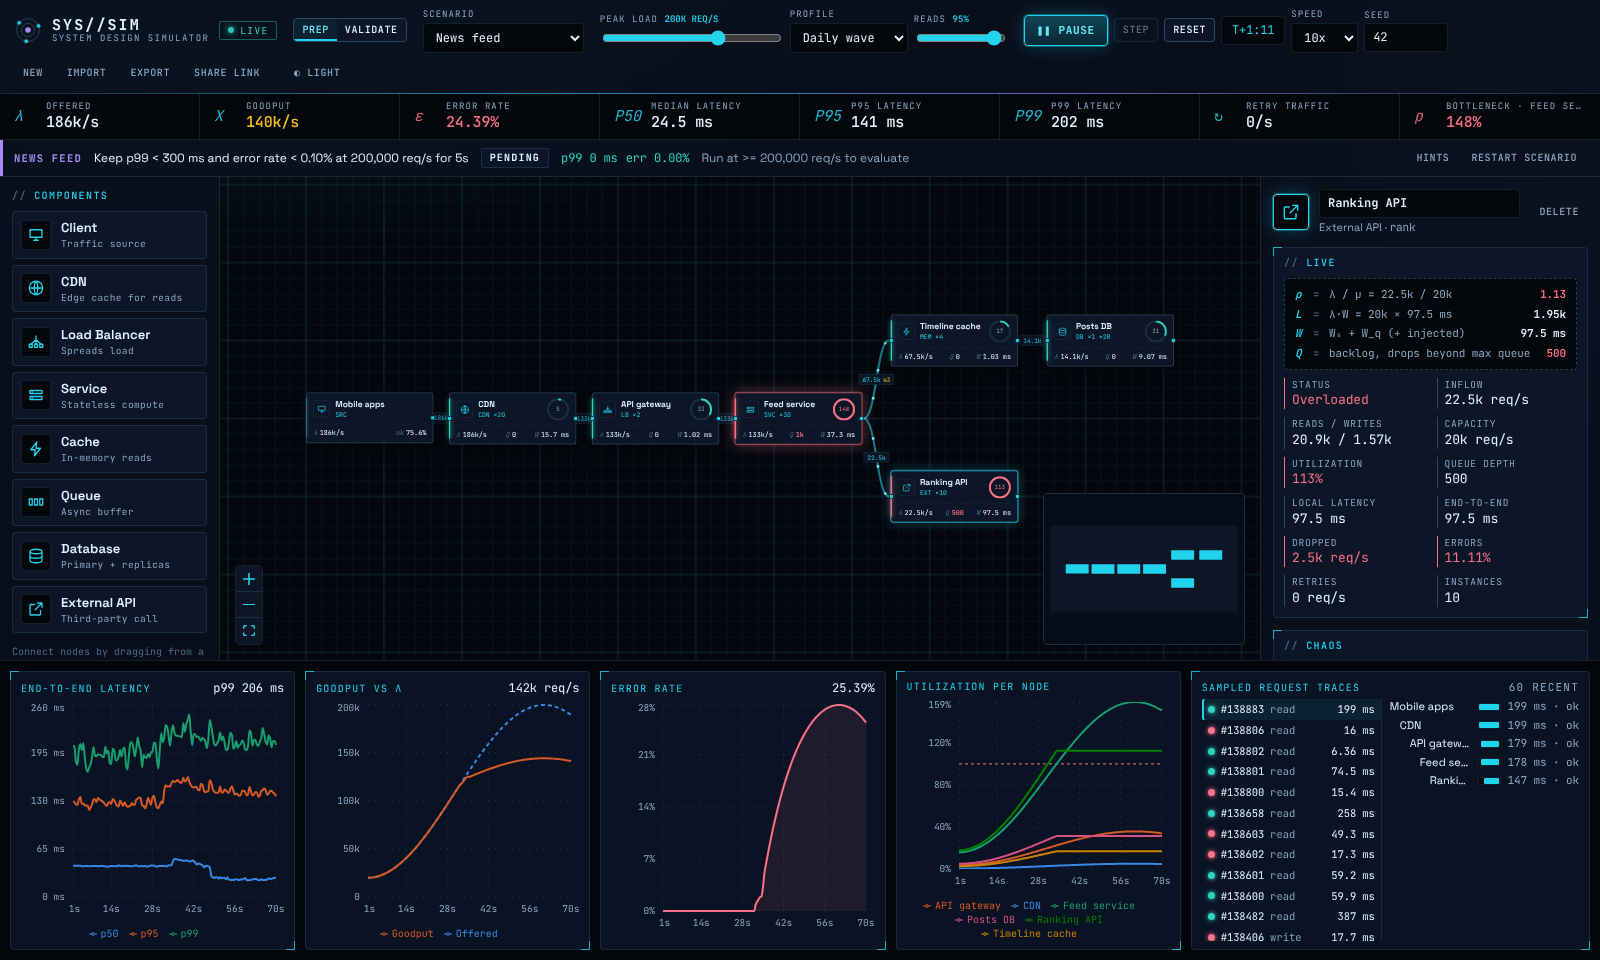
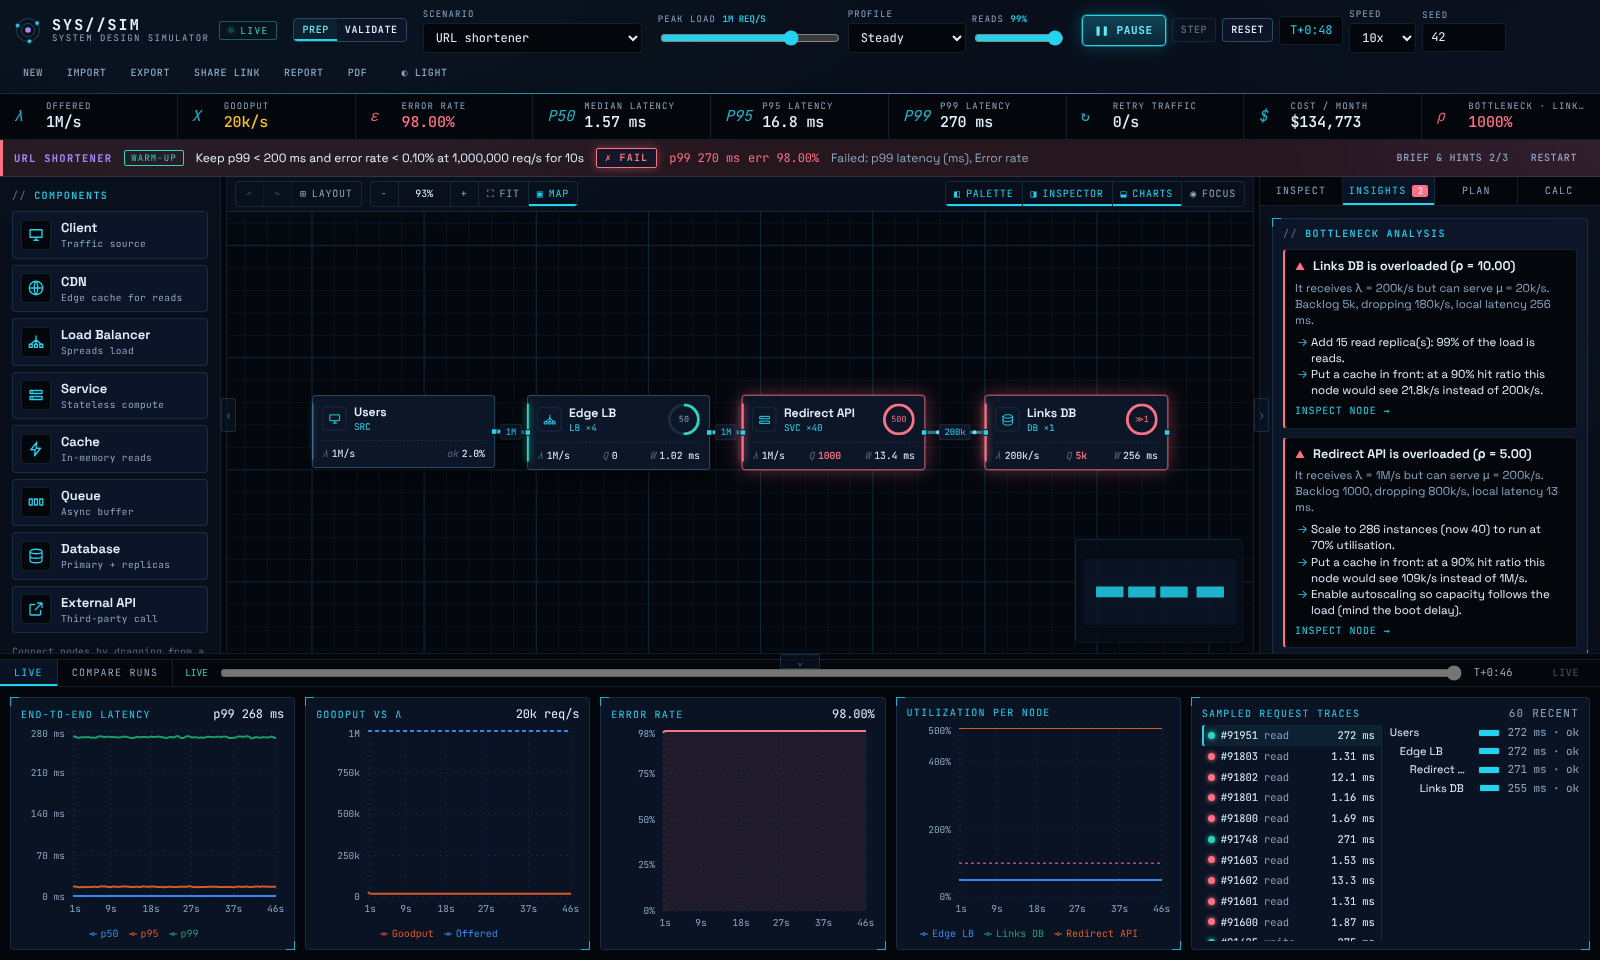
perf/docs: smoother charts, latched chaos verdicts, docs for v1.1
- Charts redraw at 2 Hz with at most 150 points per series; the insights
  badge subscribes on its own so the right panel no longer re-renders per
  frame (p95 frame time 16.8 ms running and dragging)
- Scenario goals with scripted chaos keep their verdict until Reset
- Planner applies a plan as a single undo step; share-link copy starts
  inside the click so the clipboard write keeps user activation
- README, architecture and requirements updated; ADR 0003 on rule-based
  insights and simulation-driven planning; new screenshot

Claude-Session: https://claude.ai/code/session_01N1oB8U8sLUMtzznMa2NpbQ

diff --git a/apps/web/src/features/inspector/RightPanel.tsx b/apps/web/src/features/inspector/RightPanel.tsx
@@ -4,31 +4,34 @@ import { useDesignStore } from '../../state/designStore';
 import { useSimStore } from '../../state/simStore';
 import type { RightTab } from '../../state/uiStore';
 import { useUiStore } from '../../state/uiStore';
+import type { TabItem } from '../../ui/Tabs';
 import { Tabs } from '../../ui/Tabs';
 import { EstimatorPanel } from '../estimator/EstimatorPanel';
 import { InsightsPanel } from '../insights/InsightsPanel';
 import { PlannerPanel } from '../planner/PlannerPanel';
 import { Inspector } from './Inspector';
 
-/** Critical/warning insight count, refreshed with the live tick. */
-function useInsightBadge(): number {
+/** Critical/warning insight count; subscribes to live ticks on its own so the panel doesn't. */
+function InsightBadge() {
   const design = useDesignStore((s) => s.design);
   const latest = useSimStore((s) => s.latest);
-  return useMemo(
+  const count = useMemo(
     () =>
       diagnose(design, latest).filter((i) => i.severity === 'critical' || i.severity === 'warning')
         .length,
     [design, latest],
   );
+  return count > 0 ? <span className="tab-badge">{count}</span> : null;
 }
+
+const BADGE = <InsightBadge />;
 
 export function RightPanel() {
   const tab = useUiStore((s) => s.rightTab);
   const setTab = useUiStore((s) => s.setRightTab);
-  const badge = useInsightBadge();
-  const items: { id: RightTab; label: string; badge?: number }[] = [
+  const items: TabItem<RightTab>[] = [
     { id: 'inspect', label: 'Inspect' },
-    { id: 'insights', label: 'Insights', badge },
+    { id: 'insights', label: 'Insights', badge: BADGE },
     { id: 'plan', label: 'Plan' },
     { id: 'calc', label: 'Calc' },
   ];

diff --git a/packages/engine/src/metrics/goals.ts b/packages/engine/src/metrics/goals.ts
@@ -63,12 +63,23 @@ export interface GoalTracker {
  * Tracks a running simulation against a goal. The verdict is computed over
  * the most recent `holdSeconds` of ticks where offered load is at the target.
  */
-export function createGoalTracker(goal: ScenarioGoal, costOf?: CostFn): GoalTracker {
+export interface GoalTrackerOptions {
+  /** Keep the first pass/fail verdict until reset (for runs with scripted chaos). */
+  latch?: boolean;
+}
+
+export function createGoalTracker(
+  goal: ScenarioGoal,
+  costOf?: CostFn,
+  options: GoalTrackerOptions = {},
+): GoalTracker {
   let atTarget: Observation[] = [];
   let settle = 0;
+  let verdict: GoalStatus | null = null;
 
   const tracker: GoalTracker = {
     observe(result: TickResult): GoalStatus {
+      if (verdict) return verdict;
       if (result.offeredRps < goal.targetRps * 0.99) {
         atTarget = [];
         settle = 0;
@@ -87,7 +98,9 @@ export function createGoalTracker(goal: ScenarioGoal, costOf?: CostFn): GoalTrac
           atTarget.shift();
         }
       }
-      return tracker.status();
+      const status = tracker.status();
+      if (options.latch && status.state !== 'pending') verdict = status;
+      return status;
     },
     status(): GoalStatus {
       const first = atTarget[0];
@@ -144,6 +157,7 @@ export function createGoalTracker(goal: ScenarioGoal, costOf?: CostFn): GoalTrac
     reset(): void {
       atTarget = [];
       settle = 0;
+      verdict = null;
     },
   };
   return tracker;

diff --git a/apps/web/src/state/designStore.ts b/apps/web/src/state/designStore.ts
@@ -26,6 +26,8 @@ export interface DesignState extends HistoryState {
   addNode(kind: ComponentKind, position: Position): string;
   updateNode(id: string, patch: Partial<Pick<DesignNode, 'label' | 'zone'>>): void;
   updateNodeConfig(id: string, patch: Partial<NodeConfig>): void;
+  /** Applies config patches to several nodes as one undo step (e.g. a capacity plan). */
+  applyConfigs(patches: Record<string, Partial<NodeConfig>>): void;
   moveNode(id: string, position: Position): void;
   /** Moves many nodes as one undo step (auto-layout). */
   moveNodes(positions: Record<string, Position>): void;
@@ -118,6 +120,14 @@ export const useDesignStore = create<DesignState>()((set, get) => {
 
     updateNodeConfig: (id, patch) =>
       edit((d) => mapNode(d, id, (n) => ({ ...n, config: { ...n.config, ...patch } }))),
+
+    applyConfigs: (patches) =>
+      edit((d) => ({
+        ...d,
+        nodes: d.nodes.map((n) =>
+          patches[n.id] ? { ...n, config: { ...n.config, ...patches[n.id] } } : n,
+        ),
+      })),
 
     moveNode: (id, position) =>
       edit((d) => mapNode(d, id, (n) => ({ ...n, position })), `move:${id}`),

diff --git a/apps/web/src/features/persistence/PersistenceMenu.tsx b/apps/web/src/features/persistence/PersistenceMenu.tsx
@@ -27,12 +27,19 @@ export function PersistenceMenu() {
   };
 
   const onShare = async () => {
-    const url = await shareUrl(useDesignStore.getState().design, window.location);
+    const pending = shareUrl(useDesignStore.getState().design, window.location);
     try {
-      await navigator.clipboard.writeText(url);
-      showToast(`Share link copied (${url.length.toLocaleString()} characters)`);
+      // Start the clipboard write inside the click (user activation) and resolve the
+      // compressed URL later; fall back to writeText where ClipboardItem is missing.
+      if (typeof ClipboardItem !== 'undefined') {
+        const blob = pending.then((url) => new Blob([url], { type: 'text/plain' }));
+        await navigator.clipboard.write([new ClipboardItem({ 'text/plain': blob })]);
+      } else {
+        await navigator.clipboard.writeText(await pending);
+      }
+      showToast(`Share link copied (${(await pending).length.toLocaleString()} characters)`);
     } catch {
-      window.prompt('Copy this share link', url);
+      window.prompt('Copy this share link', await pending);
     }
   };
 

diff --git a/apps/web/src/features/metrics/useChartHistory.ts b/apps/web/src/features/metrics/useChartHistory.ts
@@ -1,11 +1,24 @@
-import { useDeferredValue } from 'react';
+import { useDeferredValue, useMemo } from 'react';
 import { useSimStore } from '../../state/simStore';
 import type { ChartPoint } from '../simulation/protocol';
+
+/** Points drawn per series; longer histories are thinned (keeping the latest point). */
+export const MAX_CHART_POINTS = 150;
+
+export function downsample<T>(points: readonly T[], max: number): T[] {
+  if (points.length <= max) return [...points];
+  const step = points.length / max;
+  const out: T[] = [];
+  for (let i = points.length - 1; i >= 0 && out.length < max; i -= step)
+    out.push(points[Math.floor(i)] as T);
+  return out.reverse();
+}
 
 /**
  * Chart data as a deferred value: React renders chart updates as low-priority,
  * interruptible work, so redrawing charts never blocks dragging or animation.
  */
 export function useChartHistory(): ChartPoint[] {
-  return useDeferredValue(useSimStore((s) => s.history));
+  const history = useDeferredValue(useSimStore((s) => s.history));
+  return useMemo(() => downsample(history, MAX_CHART_POINTS), [history]);
 }

diff --git a/packages/engine/test/metrics.test.ts b/packages/engine/test/metrics.test.ts
@@ -81,3 +81,21 @@ describe('goal tracker', () => {
     expect(status.progress).toBe(0);
   });
 });
+
+describe('latched goal tracker', () => {
+  it('keeps the first verdict until reset', () => {
+    const goal = { targetRps: 500, maxP99Ms: 50, maxErrorRate: 0.001, holdSeconds: 1 };
+    const sim = createSimulation(singleService({}, { peakRps: 500 }));
+    const tracker = createGoalTracker(goal, undefined, { latch: true });
+    sim.injectFault('svc', { kind: 'kill' });
+    let status = tracker.status();
+    for (let i = 0; i < 30; i++) status = tracker.observe(sim.step());
+    expect(status.state).toBe('fail');
+    sim.clearFault('svc');
+    for (let i = 0; i < 60; i++) status = tracker.observe(sim.step());
+    expect(status.state).toBe('fail');
+    tracker.reset();
+    for (let i = 0; i < 60; i++) status = tracker.observe(sim.step());
+    expect(status.state).toBe('pass');
+  });
+});

diff --git a/apps/web/src/ui/Tabs.tsx b/apps/web/src/ui/Tabs.tsx
@@ -1,7 +1,10 @@
+import type { ReactNode } from 'react';
+
 export interface TabItem<T extends string> {
   id: T;
   label: string;
-  badge?: string | number;
+  /** Rendered after the label; a component so live counts don't re-render the tab owner. */
+  badge?: ReactNode;
 }
 
 export interface TabsProps<T extends string> {
@@ -36,7 +39,7 @@ export function Tabs<T extends string>({ items, value, onChange, label }: TabsPr
           onClick={() => onChange(t.id)}
         >
           {t.label}
-          {t.badge !== undefined && t.badge !== 0 && <span className="tab-badge">{t.badge}</span>}
+          {t.badge}
         </button>
       ))}
     </div>

diff --git a/apps/web/src/features/simulation/frameBuffer.ts b/apps/web/src/features/simulation/frameBuffer.ts
@@ -3,11 +3,11 @@ import { useSimStore } from '../../state/simStore';
 import type { ChartPoint } from './protocol';
 
 /** Charts and traces redraw at most this often; live readouts follow every animation frame. */
-const CHART_INTERVAL_MS = 250;
+const CHART_INTERVAL_MS = 500;
 
 /**
  * Coalesces worker frames so React renders at most once per animation frame,
- * and charts (the most expensive part of the UI) at most 4 times a second.
+ * and charts (the most expensive part of the UI) at most twice a second.
  */
 export class FrameBuffer {
   private tick: TickResult | null = null;

diff --git a/apps/web/src/features/planner/PlannerPanel.tsx b/apps/web/src/features/planner/PlannerPanel.tsx
@@ -46,8 +46,9 @@ export function PlannerPanel() {
 
   const apply = () => {
     if (!result) return;
-    const store = useDesignStore.getState();
-    for (const c of result.changes) store.updateNodeConfig(c.nodeId, { [c.field]: c.to });
+    const patches: Record<string, Partial<Record<PlanChange['field'], number>>> = {};
+    for (const c of result.changes) patches[c.nodeId] = { ...patches[c.nodeId], [c.field]: c.to };
+    useDesignStore.getState().applyConfigs(patches);
     useUiStore.getState().showToast(`Applied ${result.changes.length} change(s) from the planner`);
   };
 

diff --git a/packages/engine/src/index.ts b/packages/engine/src/index.ts
@@ -52,7 +52,14 @@ export { erlangC, littlesLaw, mmcWaitMs } from './sim/queueing';
 
 export type { LatencySummary } from './metrics/percentiles';
 export { percentile, summarize } from './metrics/percentiles';
-export type { CostFn, GoalCheck, GoalStatus, GoalTracker, ScenarioGoal } from './metrics/goals';
+export type {
+  CostFn,
+  GoalCheck,
+  GoalTrackerOptions,
+  GoalStatus,
+  GoalTracker,
+  ScenarioGoal,
+} from './metrics/goals';
 export { createGoalTracker, describeGoal } from './metrics/goals';
 export type { LatencyFit } from './metrics/calibration';
 export {

diff --git a/apps/web/test/runs.test.ts b/apps/web/test/runs.test.ts
@@ -30,3 +30,14 @@ describe('saved runs', () => {
     expect(summary.durationS).toBe(9);
   });
 });
+
+describe('chart downsampling', () => {
+  it('keeps at most N points including the latest', async () => {
+    const { downsample } = await import('../src/features/metrics/useChartHistory');
+    const points = Array.from({ length: 300 }, (_, i) => i);
+    const thin = downsample(points, 150);
+    expect(thin).toHaveLength(150);
+    expect(thin.at(-1)).toBe(299);
+    expect(downsample([1, 2, 3], 150)).toEqual([1, 2, 3]);
+  });
+});

diff --git a/apps/web/src/features/scenarios/useScenarioGoal.ts b/apps/web/src/features/scenarios/useScenarioGoal.ts
@@ -10,7 +10,8 @@ export function useScenarioGoal(): void {
   useEffect(() => {
     const scenario = findScenario(scenarioId);
     const active = mode === 'prep' && scenario;
-    simulation.setGoal(active ? scenario.goal : null);
+    // With scripted chaos the outage is the test: keep the verdict until Reset.
+    simulation.setGoal(active ? scenario.goal : null, !!active && !!scenario.chaos?.length);
     simulation.setChaos(active ? (scenario.chaos ?? []) : []);
   }, [scenarioId, mode]);
 }
